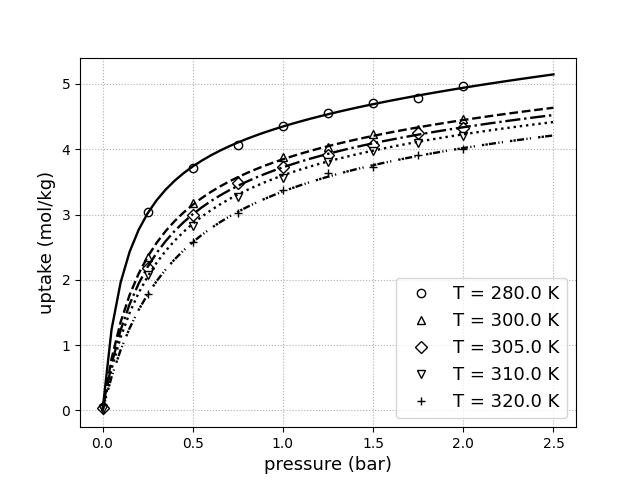
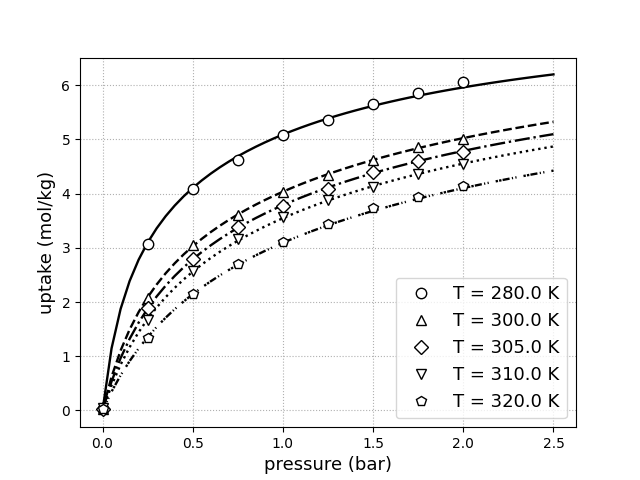
update the error to make it constant

diff --git a/isofit_diffT_test.py b/isofit_diffT_test.py
@@ -9,12 +9,12 @@ import matplotlib.pyplot as plt
 # Generate a data dummy data
 # %%
 qm_dum = 4.5 # mol/kg
-K1_dum = 4.0 # 1/bar
-K2_dum = 0.2 # 1/(bar^2)
+K1_dum = 3.0 # 1/bar
+K2_dum = 0.5 # 1/(bar^2)
 
 P_dum = np.linspace(0, 2, 9)
 T_dum = [280, 300, 305, 310, 320] # dummy T
-dH_dum = 20000 # J/mol : heat of adsorption
+dH_dum = 25000 # J/mol : heat of adsorption
 R_gas = 8.3145
 T_ref = T_dum[1] # Reference temperature = 300 K
 
@@ -22,7 +22,7 @@ q_dum = []
 
 for T in T_dum:
     P_norm = np.exp(dH_dum/R_gas*(1/T - 1/T_ref))*P_dum
-    err_dum = 0.1*np.random.rand(len(P_norm))
+    err_dum = 0.05*np.random.rand(len(P_norm))
     q_tmp = qm_dum*(K1_dum*P_norm + 2*K2_dum*P_norm**2)/(
             1+ K1_dum*P_norm + K2_dum*P_norm**2)
     q_w_err = q_tmp + err_dum
@@ -31,7 +31,7 @@ for T in T_dum:
 # Use isofit
 # %%
 P_list = [P_dum,]*len(q_dum)
-res_diffT = isofit.fit_diffT(P_list,q_dum, T_dum, 1)
+res_diffT = isofit.fit_diffT(P_list,q_dum, T_dum, 1, tol = 2E-4)
 iso_function, iso_param, zerr, fit_error, dH_found, Tref_found, theta_list = res_diffT
 print("This data is fitted with {}.".format(zerr))
 
@@ -46,14 +46,8 @@ for T in T_dum:
 # %% 
 # Draw a graph
 # %%
-markers = ('o','^','D','v','+','sq')
+
 fig, ax = plt.subplots()
-for ma, qq,  T  in zip(markers, q_dum, T_dum):
-    ax.plot(P_dum, qq, ma,
-            label = 'T = {0:.1f} K'.format(T),
-            mfc = 'w', mec = 'k')
-    
-ax.legend(fontsize = 13)
 
 lines = ('-','--','-.',':', (0,(3,1,0.5,1,0.5)))
 for qq_pr, li in zip(q_pred, lines): 
@@ -62,12 +56,18 @@ for qq_pr, li in zip(q_pred, lines):
             color = 'k',
             linewidth = 1.7)
 
+markers = ('o','^','D','v','p','sq')
+for ma, qq,  T  in zip(markers, q_dum, T_dum):
+    ax.plot(P_dum, qq, ma, markersize = 7.5,
+            label = 'T = {0:.1f} K'.format(T),
+            mfc = 'w', mec = 'k')
+    
+ax.legend(fontsize = 13)
+
+
 ax.set_xlabel('pressure (bar)', fontsize = 13)
 ax.set_ylabel('uptake (mol/kg)', fontsize = 13)
 ax.grid(which='major', linestyle = ':')
 fig.savefig('fig_test_T.png')
-
-    
-
 
 
